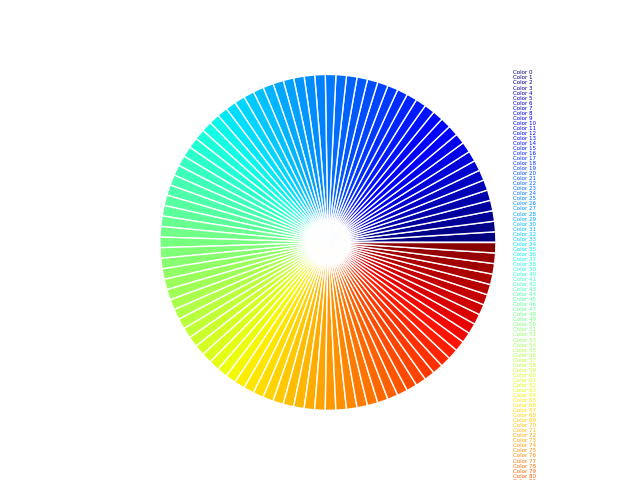
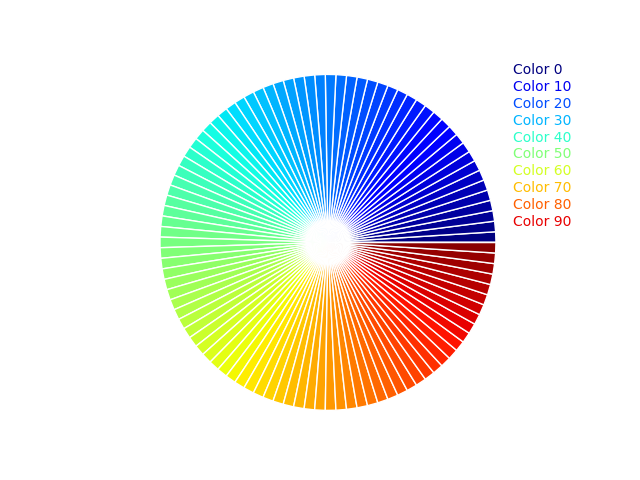
HTML笔记

Changed region(s): [[0.7812, 0.125, 0.9062, 1.0]]

diff --git a/HTML/test.html b/HTML/test.html
@@ -1,0 +1,20 @@
+<!DOCTYPE html>
+<html>
+<head>
+<meta charset="utf-8">
+<title>菜鸟教程(runoob.com)</title>
+</head>
+<body>
+    <h1>我的第一个标题</h1>
+    <p title="段落">我的第一个段落。</p>
+    <!img src="/images/logo.png" width="258" height="39" />
+    <p style="color: blue; font-size: 14px;">This is a styled paragraph.</p>
+    <input title="输入名字" type="text" placeholder="Enter your name">
+    <button onclick="alert('Button clicked!')">Click Me</button>
+    <div onmouseover="this.style.backgroundColor='yellow'">Hover over me</div>
+
+    <h2>二级标题</h2>
+    <p>这是第二个段落。</p>
+    <p>这个<br>段落<br>演示了分行的效果</p>
+</body>
+</html>

diff --git a/色图.py b/色图.py
@@ -19,14 +19,16 @@ ax.fill([0, x[-1], x[0]], [0, y[-1], y[0]], color=colors[-1], edgecolor='white')
 # 添加颜色说明文字
 m=60
 n=60
-line_spacing=0.1
+line_spacing=0.01
 row = i // n
 col = i % n
 for i in range(len(colors)):
-    ax.text(1.1, 1-i*(3/len(colors)), f'Color {i}', color=colors[i],fontsize=4)
-#    ax.text(1.1, 1-i*(line_spacing + 0.1), f'Color {i}', color=colors[i])
-#    ax.text(1.1 + col * 0.5, 1 - row * (line_spacing + 0.1), f'Color {i}', color=colors[i], fontsize=10)
+    if i % 10 == 0 :
+        #ax.text(1.1, 1-i*(3/len(colors)), f'Color {i}', color=colors[i],fontsize=4)
+        ax.text(1.1, 1-i*(line_spacing), f'Color {i}', color=colors[i])
+        ax.text(1.1 + col * 0.5, 1 - row * (line_spacing), f'Color {i}', color=colors[i], fontsize=10)
 
 plt.axis('equal')
 plt.axis('off')
+plt.savefig('色图.png')
 plt.show()

diff --git a/HTML/HTML笔记.md b/HTML/HTML笔记.md
@@ -1,0 +1,44 @@
+# HTML笔记
+
+* `<!DOCTYPE html>` 声明为 HTML5 文档
+* `<html>` HTML 页面的根元素
+* `<head>` 文档的元（meta）数据，如 `<meta charset="utf-8">` 定义网页编码格式为 utf-8。
+* `<title> `标题
+* `<body>` 元素包含了可见的页面内容
+* `<h1 title='大标题'>` 大标题
+* `<p>` 段落
+* `<a href="https://www.runoob.com">这是一个链接</a>`插入链接，其中`href`叫做属性，位于括号内，用`""`括起来
+* `<img src="/images/logo.png" width="258" height="39" />`插入图像
+* `<br>`换行，有多个就空多行
+* `<hr>`水平线
+* `<!--注释-->`注释
+* `<b>文本</b>`加粗
+* `<i>文本</i>`斜体
+
+```html
+<!DOCTYPE html>
+<html>
+<head>
+<meta charset="utf-8">
+<title>菜鸟教程(runoob.com)</title>
+</head>
+<body>
+    <h1>我的第一个标题</h1>
+    <p>我的第一个段落。</p>
+</body>
+</html>
+```
+
+### 属性
+
+* 像`href`, `src`, `alt`这些都是属性，有的必须用在特定的元素里面，有的可以通用。
+
+* 比如`style`所有元素可用，直接在元素上应用 CSS 样式：`<p style="color: blue; font-size: 14px;">`，`title`所有元素可用，为元素提供额外的提示信息，通常在鼠标悬停时显示，如`<p title="段落">`
+
+## 段落
+
+* 分行：`<p>这个<br>段落<br>演示了分行的效果</p>`
+
+
+
+

diff --git a/Python/Python笔记.md b/Python/Python笔记.md
@@ -89,7 +89,7 @@ print(a)
 ``````
 #### 类：
 
-* **说白了，定义一个类lei，可以通过lei.fun调用里面的各个函数，如果想在其他函数里面调用这些函数里面的参数，需要调用self.para**
+* **说白了，定义一个类: class，可以通过class.fun调用里面的各个函数，如果想在其他函数里面调用这些函数里面的参数，需要调用self.para**
 
 * **<span style="color:#AA33FF">固定套路：我的类里面的__init__函数对类进行初始化，通过指定self和其他对象(选填)来初始化，然后在__init__函数下面self.duixiang来初始化**
 * **调用类的时候传入的参数是__init__除了self之外的参数**
@@ -169,14 +169,14 @@ class Calculator:
         print(result)
 ``````
 #### 当我们调用这个类，先把类赋给对象：
-lei=Calculator()
+`class=Calculator()`
 #### 然后再调用这个类的一些属性：
-print(lei.name)
+`lass.name`
 #### 输出的是这个类的名字Nice Calculator
 ``````python
-print(lei.price)
+print(class.price)
 #输出的是5
-lei.fun(5,6)
+class.fun(5,6)
 #输出的是11
 ``````
 #### 类的init功能：
@@ -347,7 +347,7 @@ print(random_numbers)
 
 
 #### 保留指定位数的小数
-print("sin","%.2f"%x,"=","%.3f"%s)
+`print("sin","%.2f"%x,"=","%.3f"%s)`
 
 
 ### 矩阵操作

diff --git a/Python/关于类的使用.md b/Python/关于类的使用.md
@@ -54,7 +54,7 @@ stu.fun()
 ## **类的继承**
 
 * **父类中的属性，子类可以直接调用，<span style='color:#EE2266'>子类继承时要在括号内写出父类的类名</span>**
-* **父类里面有的属性，子类不需要再定义，只用`super().方法(属性)`继承即可**
+* **父类里面有的属性，子类不需要再定义，只用`super().方法(属性)`继承即可**，只用继承父类的`__init__()`就可以了，其他的函数自动被继承了。
 ```python
 # 下面定义一个父类
 class Person():
@@ -91,6 +91,7 @@ doctor.show()
 * **假设一个子类要继承多个父类，用`super().__init__`会不知道该继承哪一个父类，因此用父类的名称来区分**
 
 ```python
+#定义一个父类A
 class PersonA():
     def __init__(self,name,hobby):
         self.name = name
@@ -99,6 +100,7 @@ class PersonA():
     def showA():
         print(f'我的名字是：{self.name}，爱好是：{self.hobby}。')
 
+#定义一个父类B
 class PersonB():
     def __init__(self,name,age):
         self.name = name

diff --git a/G4.md b/G4.md
@@ -249,11 +249,11 @@ physical volume:几何体位置，是否旋转，其他信息。
 ##### 2.大杂烩
 * 真空
 G4double
-  density = 1.e-25*g/cm3; //from PhysicalConstants.h
+  density = 1.e-25\*g/cm3; //from PhysicalConstants.h
 G4double
-pressure = 1.e-19*pascal;
+pressure = 1.e-19\*pascal;
 G4double
-temperature = 0.1*kelvin;
+temperature = 0.1\*kelvin;
 
 new G4Material("Galactic", 1., 1.01*g/mole, density,
 kStateGas,temperature,pressure);
